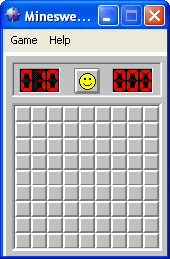
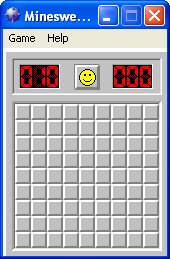
Lil bug fix

Changed region(s): [[0.0, 0.1236, 1.0, 0.9575]]

diff --git a/game.py b/game.py
@@ -302,7 +302,7 @@ def run_game(factor, difficulty):
     menu = tk.Frame(root, bg="#ece9d8", height=19 * factor)
     folderPath = join("cache", str(factor), "")
     menuImage = tk.PhotoImage(file=folderPath + "menu.gif")
-    menuLabel = tk.Label(menu, image=menuImage, bg="#ece9d8")
+    menuLabel = tk.Label(menu, image=menuImage, bg="#ece9d8", bd=0)
     # App
     app = App(root, factor, mapSize, nMines)
     app.config(bg="gray76", bd=0)
